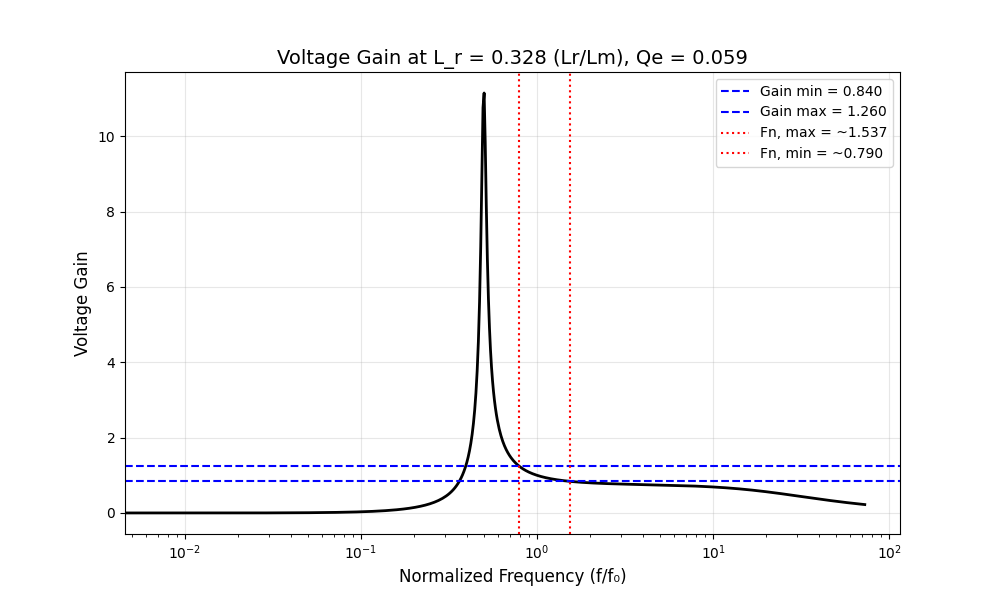
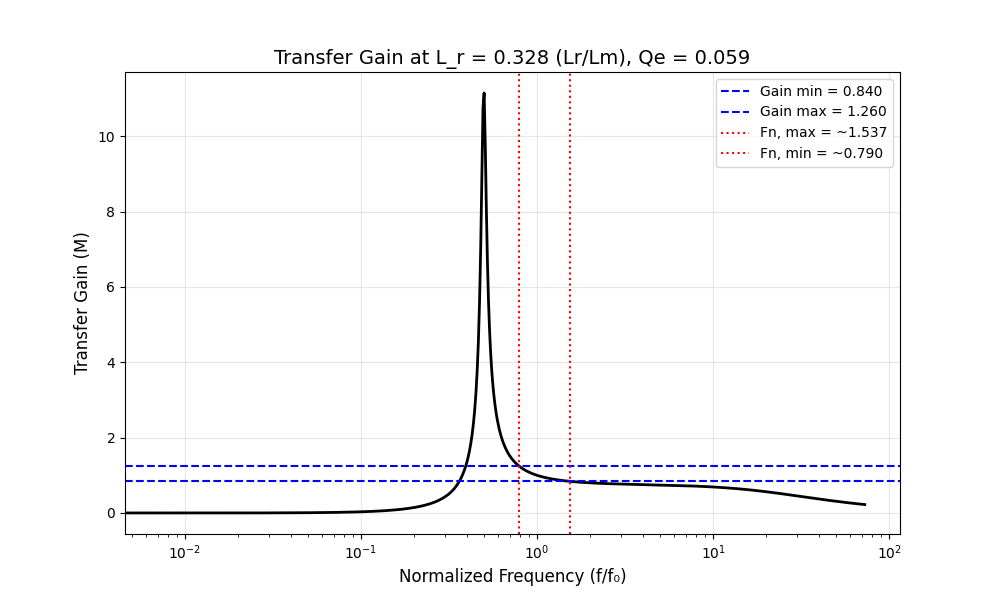
Added transfer gain vs input voltage and removed sampling rate

Changed region(s): [[0.279, 0.06, 0.744, 0.12], [0.062, 0.39, 0.093, 0.63]]

diff --git a/01_simulation/01_analytical/first_harmonic_approximation/main.py b/01_simulation/01_analytical/first_harmonic_approximation/main.py
@@ -4,10 +4,9 @@ Filename: main.py
 Description:
     A Resonant Half Bridge Converter analytical 
     first harmonic approximation for quality factor
-    voltage gain against normalized frequency
+    and transfer gain against normalized frequency
 """
 
-from time import time
 from pathlib import Path
 from picounits import Parser
 from picounits import FREQUENCY
@@ -24,20 +23,14 @@ parameters = Parser.open(parameters_path, ROOT_DIR / "../metric.ut")
 
 # Loads in the Solver and prints derived values
 solver = ModelSolver(parameters)
+solver.info()
 
 # Calculates the number of samples
 frequency_step = parameters.numerics.frequency_step
 frequency_sample_space = parameters.numerics.frequency_sample
 
 num_samples = int(frequency_sample_space/frequency_step)
-
-# Calculates the approximate samples per second
-start = time()
-_ = solver.gain_characteristic(1 * FREQUENCY / (solver.res_freq * FREQUENCY))
-end = time()
-duration = end-start
-
-print(f"Sample Space: {frequency_sample_space}, Samples: {num_samples}, S/s: {int(1/duration)}")
+print(f"Sample Space: {frequency_sample_space}, Samples: {num_samples}")
 
 # Calculates the gain characteristic vs normalized frequency
 normalized_results = []
@@ -51,13 +44,15 @@ for index in range(0, num_samples):
     normalized_results.append(normalized_frequency.stripped)
     gain_results.append(gain)
 
-
 # Plots the normalized frequency vs characteristic gain
 plt.figure(figsize=(10, 6))
 plt.semilogx(normalized_results, gain_results, linewidth=2, color='black')
 plt.xlabel('Normalized Frequency (f/f₀)', fontsize=12)
-plt.ylabel('Voltage Gain', fontsize=12)
-plt.title(f'Voltage Gain at L_r = {solver.ind_ratio:.3f} (Lr/Lm), Qe = {solver.quality_factor:.3f}', fontsize=14)
+plt.ylabel('Transfer Gain (M)', fontsize=12)
+plt.title(
+    f'Transfer Gain at L_r = {solver.ind_ratio:.3f} (Lr/Lm), Qe = {solver.quality_factor:.3f}', 
+    fontsize=14
+)
 plt.grid(True, alpha=0.3)
 
 # Add gain range as lines

diff --git a/01_simulation/01_analytical/first_harmonic_approximation/model/solver.py b/01_simulation/01_analytical/first_harmonic_approximation/model/solver.py
@@ -3,7 +3,7 @@ Filename: solver.py
 
 Description:
     A Resonant Half Bridge Converter analytical
-    solver for quality factor and voltage gain
+    solver for quality factor and transfer gain
     against normalized frequency
 """
 
@@ -16,7 +16,7 @@ from picounits import VOLTAGE, CAPACITANCE, FREQUENCY, INDUCTANCE, NULLSET, CURR
 class ModelSolver:
     """
     Analytical Solver for resonant half bridge converter problem.
-    Computes quality factor, voltage gain over normalized frequency.
+    Computes quality factor, transfer gain over normalized frequency.
     """
     def __init__(self, parameters: DynamicLoader) -> None:
         """ Initializes the solver class """
@@ -34,11 +34,8 @@ class ModelSolver:
         self.equivalent_load_resistance = term / denom
         self.quality_factor = self.char_imp / self.equivalent_load_resistance
 
-        # Returns the derived parameters
-        print(self._name)
-
     def gain_characteristic(self, normalized_frequency: Q) -> float:
-        """ Computes the voltage gain characteristic at a normalized frequency """
+        """ Computes the transfer gain characteristic at a normalized frequency """
         normalized_frequency = validate(normalized_frequency, NULLSET)
 
         # Returns to avoid division by zero
@@ -83,6 +80,10 @@ class ModelSolver:
             f"Quality Factor: {self.quality_factor * NULLSET}, "
             f"Inductance Ratio: {self.ind_ratio * NULLSET})>"
         )
+
+    def info(self) -> None:
+        """ Prints the system information to terminal """
+        print(self._name)
 
     def __repr__(self) -> str: return self._name
     def __str__(self) -> str: return self._name

diff --git a/01_simulation/01_analytical/transfer_gain/main.py b/01_simulation/01_analytical/transfer_gain/main.py
@@ -1,0 +1,49 @@
+"""
+Filename: main.py
+
+Description:
+    A resonant Half Bridge Converter
+    analytical model for transfer gain
+    range over changing input voltage.
+"""
+
+from pathlib import Path
+from picounits import Parser
+
+from matplotlib import pyplot as plt
+
+# Loads unit system, material library & parameters
+ROOT_DIR = Path(__file__).resolve().parents[0]
+
+# Materials & Parameter files
+parameters_path = ROOT_DIR / "parameters.uiv"
+parameters = Parser.open(parameters_path, ROOT_DIR / "../metric.ut")
+
+
+initial = parameters.model.min_voltage
+samples = (parameters.model.max_voltage - initial) / parameters.numerics.voltage_step
+
+# Calculates the gain vs input voltage with fixed nominal voltage
+input_voltage = []
+transfer_gain = []
+
+for index in range(0, int(samples)):
+    voltage = initial + index * parameters.numerics.voltage_step
+    gain = 2 * parameters.transformer.turns * (parameters.load.nominal_voltage/voltage)
+
+    # Strips and appends voltage/gain results
+    input_voltage.append(voltage.stripped)
+    transfer_gain.append(gain.stripped)
+
+
+plt.figure(figsize=(10, 6))
+plt.plot(input_voltage, transfer_gain, linewidth=2, color='black')
+plt.xlabel('Input voltage (V)', fontsize=12)
+plt.ylabel('Transfer Gain (M)', fontsize=12)
+plt.title(
+    f'Transfer Gain vs Input Voltage, Nominal Output: {parameters.load.nominal_voltage:.3f}',
+    fontsize=14
+)
+plt.grid(True, alpha=0.3)
+plt.legend()
+plt.show()

diff --git a/01_simulation/01_analytical/readme.md b/01_simulation/01_analytical/readme.md
@@ -7,10 +7,23 @@ This folder contains analytical models to explore design variables at medium fid
 This analytical model is written in `Python` and uses `picounits` for parameter loading and unit validation. It models the resonant circuit two-port model described in application note `AN2450` by ST, and also in a `2024 RMIT` paper, though they use different models. The ST FHA model was used in this implementation.
 
 <div align="center"><img src="../../05_media/01_simulation/analytical_models/fha_example.png" alt="FHA_Example" style="max-width: 600px">
-<p><em>Figure 1: First Harmonic Approximation output showing voltage gain (linear) vs frequency (log) for the LLC resonant tank, plotted for varying quality factor (Qe) and inductance ratio (Ln) (Lr/Lm).</em></p></div>
+<p><em>Figure 1: First Harmonic Approximation output showing transfer gain (linear) vs frequency (log) for the LLC resonant tank, plotted for varying quality factor (Qe) and inductance ratio (Ln) (Lr/Lm).</em></p></div>
 
 > [!note]
 > Model: [first_harmonic_approximation](first_harmonic_approximation/)  
 > Parameters: [parameters.uiv](first_harmonic_approximation/parameters.uiv)
+
+---
+
+### Transfer Gain vs Input Voltage
+
+This analytical model is written in `Python` and uses `picounits` for parameter loading and unit validation. It models the transfer gain vs input voltage using the equations described in application note `AN2450` by ST.
+
+<div align="center"><img src="../../05_media/01_simulation/analytical_models/transfer_vs_input_voltage.png" alt="Transfer gain vs input voltage" style="max-width: 600px">
+<p><em>Figure 2: Analytical model showing transfer gain (linear) vs input voltage (linear) for the LLC resonant half-bridge converter.</em></p></div>
+
+> [!note]
+> Model: [transfer_gain](transfer_gain/)  
+> Parameters: [parameters.uiv](transfer_gain/parameters.uiv)
 
 ---
